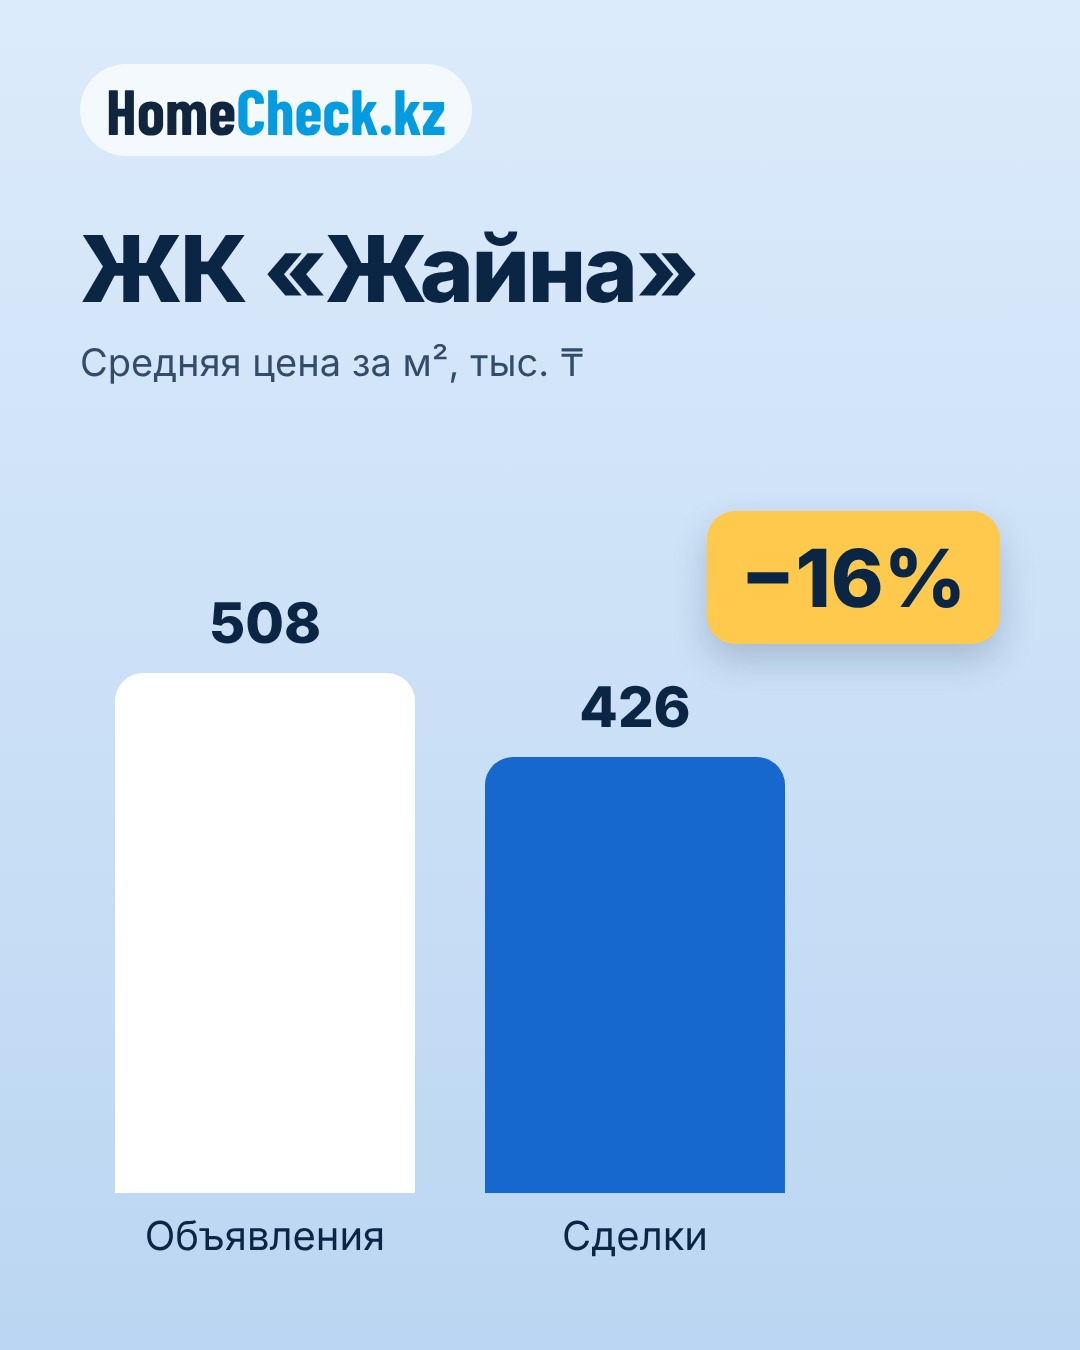
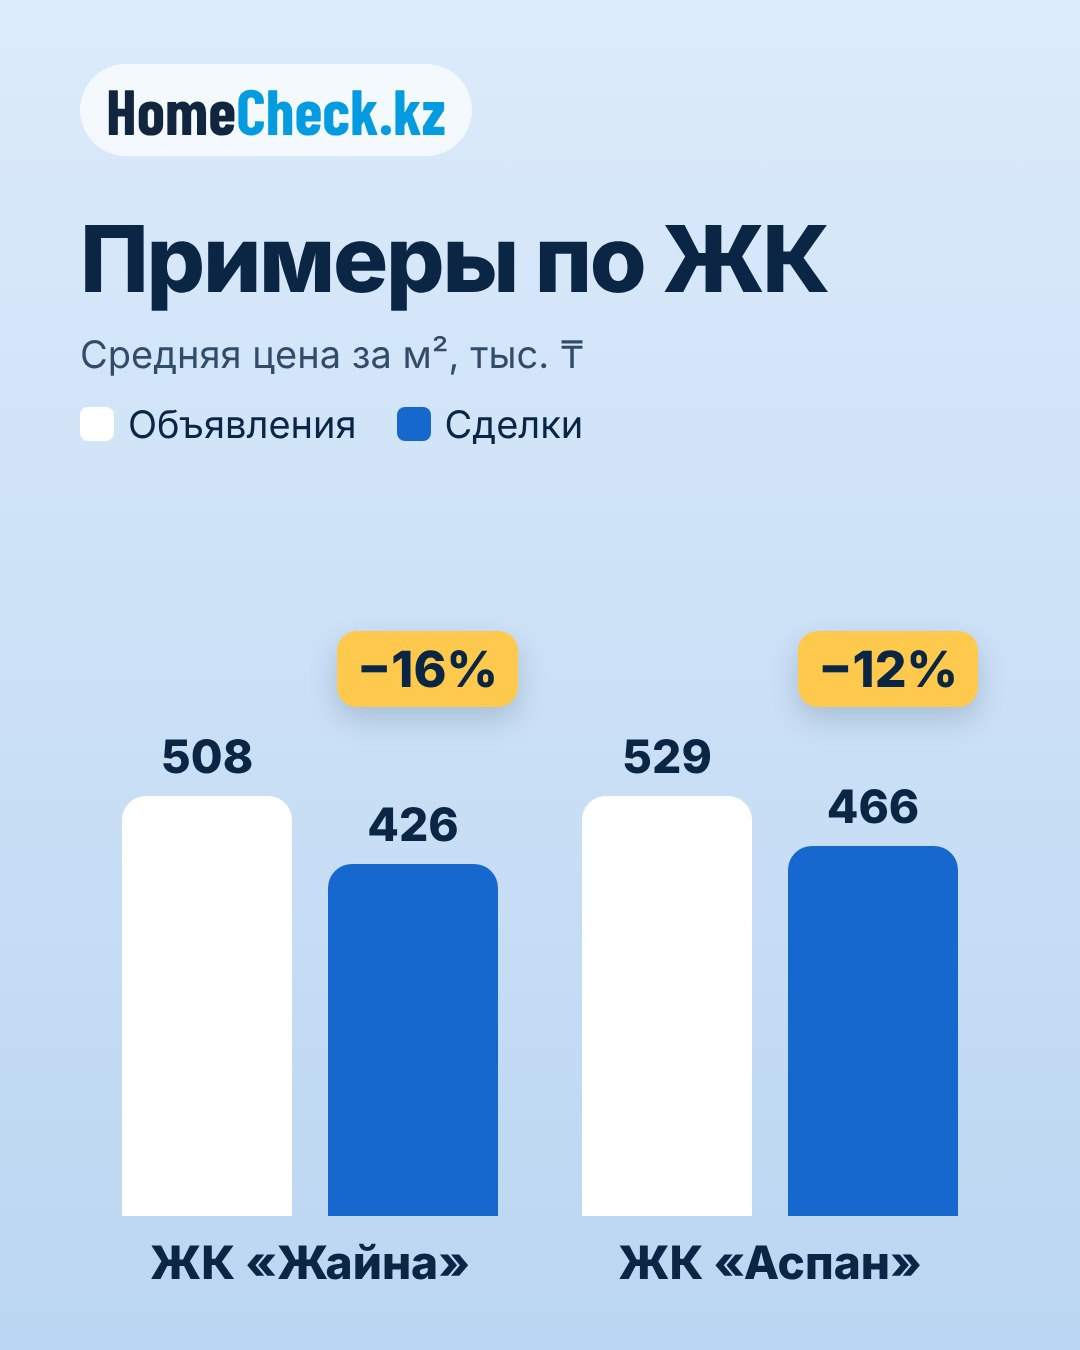
Analytics post v2: ЖК on one slide, benefits slide before final
Claude-Session: https://claude.ai/code/session_01YPTRhbcfXRBnSeVtmn8ipe

Changed region(s): [[0.0917, 0.4356, 0.8861, 0.9644], [0.0611, 0.1556, 0.7639, 0.3422], [0.6417, 0.3733, 0.9472, 0.5289]]

diff --git a/posts/analitika-obyavleniya-sdelki/build.py b/posts/analitika-obyavleniya-sdelki/build.py
@@ -74,6 +74,42 @@ def compare(name, a, s, pct):
             f'{bar(ha, "#FFFFFF", "Объявления", a, NAVY)}{bar(hs, BLUE, "Сделки", s, NAVY)}</div>'
             f'<div style="position:absolute;right:80px;bottom:{90 + 60 + hs + 120}px;background:{YEL};color:{NAVY};font-size:80px;font-weight:800;border-radius:28px;padding:18px 34px;box-shadow:0 16px 36px rgba(11,37,69,.2)">−{pct}%</div>')
 
+def compare2():
+    pairs = [('Жайна', 508, 426, 16), ('Аспан', 529, 466, 12)]
+    hmax = 420
+    groups = []
+    for name, a, d, pct in pairs:
+        hd = round(hmax * d / a)
+        bar = lambda h, color, val: (f'<div style="display:flex;flex-direction:column;align-items:center;justify-content:flex-end;width:190px">'
+            f'<div style="font-size:46px;font-weight:800;margin-bottom:12px">{val}</div>'
+            f'<div style="width:170px;height:{h}px;border-radius:24px 24px 0 0;background:{color}"></div></div>')
+        groups.append(f'<div style="display:flex;flex-direction:column;align-items:center;position:relative">'
+            f'<div style="position:absolute;top:-95px;right:-10px;background:{YEL};font-size:50px;font-weight:800;border-radius:20px;padding:8px 20px;box-shadow:0 12px 28px rgba(11,37,69,.18);z-index:2">−{pct}%</div>'
+            f'<div style="display:flex;gap:16px;align-items:flex-end;height:{hmax + 70}px">{bar(hmax, "#FFFFFF", a)}{bar(hd, BLUE, d)}</div>'
+            f'<div style="font-size:46px;font-weight:800;margin-top:18px">ЖК «{name}»</div></div>')
+    legend = (f'<div style="display:flex;gap:40px;font-size:38px;align-items:center">'
+              f'<span style="display:flex;gap:14px;align-items:center"><i style="width:34px;height:34px;border-radius:8px;background:#fff;display:inline-block"></i>Объявления</span>'
+              f'<span style="display:flex;gap:14px;align-items:center"><i style="width:34px;height:34px;border-radius:8px;background:{BLUE};display:inline-block"></i>Сделки</span></div>')
+    return (f'<div class="box" style="top:210px;gap:22px"><h2 class="t">Примеры по ЖК</h2>'
+            f'<p class="lb">Средняя цена за м², тыс. ₸</p>{legend}</div>'
+            f'<div style="position:absolute;left:80px;right:80px;bottom:60px;display:flex;justify-content:space-around;align-items:flex-end">{"".join(groups)}</div>')
+
+
+def benefits():
+    items = [('Цены сделок в доме', 'за сколько реально продавали'),
+             ('Сравнение цены продавца', 'со сделками в этом доме'),
+             ('История квартиры', 'когда и сколько раз продавали'),
+             ('Вопросы для переговоров', 'что уточнить до сделки')]
+    rows = ''.join(
+        f'<div style="display:flex;gap:28px;align-items:center;background:#fff;border-radius:28px;padding:18px 28px;box-shadow:0 14px 34px rgba(11,37,69,.12)">'
+        f'<div style="width:64px;height:64px;flex:none;border-radius:50%;background:{BLUE};color:#fff;font-size:40px;font-weight:800;display:flex;align-items:center;justify-content:center">✓</div>'
+        f'<div><div style="font-size:46px;font-weight:800;line-height:1.15">{t}</div><div style="font-size:38px;color:#2F4566;line-height:1.25">{d}</div></div></div>'
+        for t, d in items)
+    return (f'<div class="box" style="top:200px;gap:20px"><h2 class="t" style="font-size:84px;white-space:nowrap">Что даёт HomeCheck</h2>{rows}'
+            f'<div style="background:{NAVY};color:#fff;border-radius:28px;padding:24px 30px;font-size:42px;font-weight:800;line-height:1.22">'
+            f'Зная цены сделок в доме, проще обсуждать цену с продавцом и <span class="y">искать возможность сэкономить</span></div></div>')
+
+
 def money():
     coins = ''.join(f'<div style="position:absolute;left:{x}px;bottom:{k*34}px;width:220px;height:60px;border-radius:50%;background:{YEL};box-shadow:inset 0 -10px 0 #E8A92E"></div>'
                     for x, n in [(120, 7), (420, 10), (720, 5)] for k in range(n))
@@ -96,11 +132,11 @@ SLIDES = [
     page('blue', '<div class="box" style="top:250px;gap:24px"><p class="lb" style="opacity:.9">Средняя разница по домам</p>'
          '<p style="margin:0;font-size:260px;line-height:1;font-weight:800;letter-spacing:-.03em" class="y">≈16%</p>'
          '<p class="p">В отдельных домах наблюдался разрыв <b>около 30%</b>.</p></div>' + houses_bar()),
-    page('light', compare('Жайна', 508, 426, 16)),
-    page('light', compare('Аспан', 529, 466, 12)),
+    page('light', compare2()),
     page('blue', '<div class="box" style="top:250px"><h2 class="t">В пересчёте на квартиру — несколько миллионов&nbsp;₸</h2>'
          '<p class="lb" style="opacity:.9">На разницу могут влиять переговоры, комплектация и условия расчётов.</p></div>' + money()),
-    page('light', '<div class="box" style="top:220px"><h2 class="t">Уже выбрали квартиру? Проверьте её в&nbsp;HomeCheck.kz</h2>'
+    page('light', benefits()),
+    page('blue', '<div class="box" style="top:220px"><h2 class="t">Уже выбрали квартиру? Проверьте её в&nbsp;HomeCheck.kz</h2>'
          '</div>' + search()),
 ]
 
